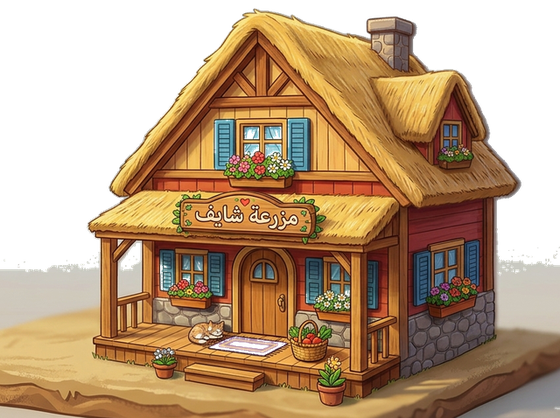
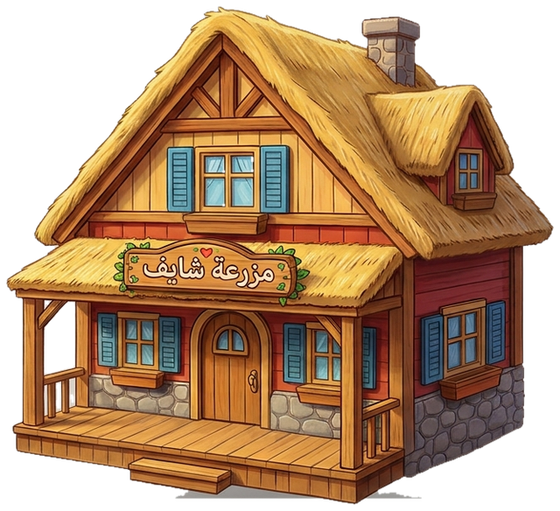
دمج الشخصية والمنزل والمروج من الصور المرجعية
شايف بالزي والعمامة والجنبية هو اللاعب وفي القائمة، الكوخ جالس على العشب، والأرض حقل أخضر بورود وردية.

diff --git a/js/app.js b/js/app.js
@@ -128,6 +128,7 @@
   const keys = {};
   let walkTo = null, fauna = [], bits = [], clouds = [], focus = null, lastT = 0;
   const imgShayef = new Image(); imgShayef.src = "img/shayef.png";
+  const imgPlayer = new Image(); imgPlayer.src = "img/player.png";
   const imgHouse = new Image(); imgHouse.src = "img/house.png";
 
   function starterPlots() {
@@ -660,7 +661,7 @@
           continue;
         }
         const gh = hash(x + "," + y);
-        map[y][x] = { t: "grass", flower: gh % 9 === 0, clover: gh % 7 === 0, pebble: gh % 17 === 0 };
+        map[y][x] = { t: "grass", flower: gh % 3 === 0, clover: gh % 4 === 0, pebble: gh % 19 === 0, bloom: gh % 5 };
       }
     }
     for (let x = 7; x <= 13; x++) if (map[9] && map[9][x] && map[9][x].t === "grass") map[9][x] = { t: "path" };
@@ -1001,7 +1002,7 @@
       const ox = ((h >> (i * 3)) % 13) - 6, oy = ((h >> (i * 2 + 1)) % 7) - 3;
       const sway = Math.sin((t || 0) * 2.1 + x * 0.55 + i) * 1.8 + bend;
       const hh = 6 + (h >> i) % 5;
-      c.strokeStyle = i % 4 === 0 ? "#8bc34a" : i % 4 === 1 ? "#66bb6a" : i % 4 === 2 ? "#43a047" : "#2e7d32";
+      c.strokeStyle = i % 4 === 0 ? "#9ccc65" : i % 4 === 1 ? "#7cb342" : i % 4 === 2 ? "#66bb6a" : "#2e7d32";
       c.beginPath();
       c.moveTo(p.x + ox, p.y + oy + 4);
       c.quadraticCurveTo(p.x + ox + sway * 0.4, p.y + oy - hh * 0.45, p.x + ox + sway, p.y + oy - hh);
@@ -1010,11 +1011,27 @@
   }
   function grassPalette(x, y) {
     const h = hash(x + "p" + y) % 5;
-    if (h === 0) return ["#4ecf5a", "#34a33c", "#1e7a28"];
-    if (h === 1) return ["#62d96a", "#3cb346", "#2e8b32"];
-    if (h === 2) return ["#3db84a", "#2e9b38", "#1b6e24"];
-    if (h === 3) return ["#58c85f", "#43a047", "#2e7d32"];
-    return ["#46c45a", "#388e3c", "#1b5e20"];
+    if (h === 0) return ["#7ed957", "#4caf50", "#2e7d32"];
+    if (h === 1) return ["#8be06a", "#66bb6a", "#388e3c"];
+    if (h === 2) return ["#6bcf4a", "#43a047", "#2e7d32"];
+    if (h === 3) return ["#9ad95c", "#7cb342", "#558b2f"];
+    return ["#62d26a", "#43a047", "#1b5e20"];
+  }
+  function drawPinkBloom(c, x, y, s, seed) {
+    const cols = ["#f8bbd0", "#f48fb1", "#f06292", "#ec407a", "#ffcdd2"];
+    c.save(); c.translate(x, y);
+    const sway = Math.sin((seed % 9) + x * 0.02) * 0.15;
+    c.rotate(sway);
+    c.fillStyle = cols[seed % cols.length];
+    for (let i = 0; i < 5; i++) {
+      const a = i * 1.2566;
+      c.beginPath();
+      c.ellipse(Math.cos(a) * s * 0.85, Math.sin(a) * s * 0.5, s * 0.55, s * 0.28, a, 0, 7);
+      c.fill();
+    }
+    c.fillStyle = "#fff59d";
+    c.beginPath(); c.arc(0, 0, s * 0.28, 0, 7); c.fill();
+    c.restore();
   }
   function drawBuildingBox(c, x, y, bw, bd, h, wall, wallD, roof) {
     const p0 = toScreen(x, y), pR = toScreen(x + bw, y), pF = toScreen(x + bw, y + bd), pL = toScreen(x, y + bd);
@@ -1114,14 +1131,18 @@
         drawBlock(c, p.x, p.y, shade(pal[0], -18), shade(pal[1], -12), shade(pal[2], -8));
         drawTufts(c, p, x, y, t);
       } else if (cell.t === "path") {
-        drawBlock(c, p.x, p.y, "#f3d5a0", "#d7a86a", "#c48a3a");
+        drawBlock(c, p.x, p.y, "#d7c48a", "#b89a5c", "#8d6e3a");
         const ph = hash(x + "s" + y);
         if (ph % 3 === 0) { c.fillStyle = "#c4a574"; c.beginPath(); c.ellipse(p.x + (ph % 7) - 3, p.y + 2, 3.2, 1.6, 0.2, 0, 7); c.fill(); }
       } else if (cell.t === "plot") {
         const pl = state.plots[cell.plot];
         drawBlock(c, p.x, p.y, isReady(pl) ? "#a97843" : "#5d4037", "#4e342e", "#3e2723");
       } else if (cell.t === "site") drawBlock(c, p.x, p.y, "#ffe082", "#ffca28", "#f9a825");
-      else {
+      else if (cell.t === "house") {
+        const pal = grassPalette(x + 1, y);
+        drawBlock(c, p.x, p.y, shade(pal[0], -14), shade(pal[1], -10), shade(pal[2], -8));
+        drawTufts(c, p, x, y, t);
+      } else {
         const pal = grassPalette(x, y);
         drawBlock(c, p.x, p.y, pal[0], pal[1], pal[2]);
         drawTufts(c, p, x, y, t);
@@ -1134,10 +1155,10 @@
         }
         if (cell.pebble) { c.fillStyle = "#cfd8dc"; c.beginPath(); c.ellipse(p.x - 6, p.y + 3, 3.5, 1.8, -0.3, 0, 7); c.fill(); }
         if (cell.flower) {
-          const cols = ["#ec407a", "#fff176", "#7e57c2", "#ff8a65", "#42a5f5"];
-          c.fillStyle = cols[(x * 3 + y) % cols.length];
-          c.beginPath(); c.arc(p.x + 5, p.y - 5, 2.4, 0, 7); c.fill();
-          c.fillStyle = "#fff59d"; c.beginPath(); c.arc(p.x + 5, p.y - 5, 1, 0, 7); c.fill();
+          drawPinkBloom(c, p.x + ((hash(x + "f") % 9) - 4), p.y - 4, 3.4 + (cell.bloom % 3) * 0.6, hash(x + "b" + y));
+          if (cell.bloom % 2 === 0) drawPinkBloom(c, p.x - 8, p.y + 2, 2.6, hash(y + "c" + x));
+        } else if ((x + y) % 4 === 1) {
+          drawPinkBloom(c, p.x + 6, p.y - 2, 2.2, x * 3 + y);
         }
       }
       if (focus && ((focus.type === "plot" && cell.plot === focus.i) || (focus.type === "place" && focus.x === x && focus.y === y) || ((focus.type === "forest" || focus.type === "rock" || focus.type === "bush" || focus.type === "wild") && focus.x === x && focus.y === y))) {
@@ -1255,29 +1276,36 @@
     }
   }
   function drawHouseExt(c, t) {
-    const door = toScreen(7.5, 8.95);
-    const base = toScreen(7.5, 8.55);
-    const sway = Math.sin(t * 0.9) * 0.6;
+    const door = toScreen(7.5, 8.92);
+    const p0 = toScreen(6.0, 6.05), pR = toScreen(9.05, 6.05), pF = toScreen(9.05, 8.95), pL = toScreen(6.0, 8.95);
     c.save();
-    c.fillStyle = "rgba(40, 70, 30, 0.28)";
+    c.fillStyle = "rgba(28, 62, 22, 0.26)";
     c.beginPath();
-    c.ellipse(base.x + 4, base.y + 12, 92, 28, 0, 0, 7);
+    c.moveTo(p0.x, p0.y + 6);
+    c.lineTo(pR.x, pR.y + 6);
+    c.lineTo(pF.x, pF.y + 10);
+    c.lineTo(pL.x, pL.y + 10);
+    c.closePath();
     c.fill();
     if (imgHouse.complete && imgHouse.naturalWidth) {
-      const w = 252, h = w * (imgHouse.naturalHeight / imgHouse.naturalWidth);
-      c.drawImage(imgHouse, base.x - w / 2 + 6 + sway * 0.12, base.y - h + 22, w, h);
-    } else {
-      c.fillStyle = "#c48a3a";
-      c.fillRect(base.x - 50, base.y - 80, 100, 80);
+      const w = 278, h = w * (imgHouse.naturalHeight / imgHouse.naturalWidth);
+      c.drawImage(imgHouse, door.x - w * 0.50, door.y - h + 18, w, h);
     }
+    const beds = [
+      [6.15, 8.55], [8.85, 8.5], [6.35, 7.15], [8.7, 7.05], [5.95, 8.15], [9.15, 8.2],
+    ];
+    beds.forEach(([x, y], i) => {
+      const q = toScreen(x, y);
+      drawPinkBloom(c, q.x, q.y - 4, 3.2 + (i % 3) * 0.4, 11 + i * 3);
+    });
     c.restore();
-    if (Math.sin(t * 2.4) > 0.2) {
-      c.fillStyle = "rgba(255, 248, 220, 0.35)";
+    if (Math.sin(t * 2.2) > 0.35) {
+      c.fillStyle = "rgba(255, 248, 220, 0.32)";
       c.beginPath();
-      c.arc(door.x + 22, door.y - 52, 5 + Math.sin(t * 3) * 1.2, 0, 7);
+      c.arc(door.x + 18, door.y - 58, 4.5 + Math.sin(t * 3) * 1.1, 0, 7);
       c.fill();
     }
-    label(c, "بيت شايف", door.x, door.y - 92);
+    label(c, "بيت شايف", door.x, door.y - 108);
   }
   function drawSite(c, s) {
     const p = toScreen(s.x + s.w / 2, s.y + s.h / 2);
@@ -1483,134 +1511,47 @@
     const p = toScreen(player.x, player.y);
     const walk = player.state === "walk";
     const ph = player.anim * (walk ? 11 : 2);
-    const bob = walk ? Math.abs(Math.sin(ph)) * 3.6 : Math.sin(t * 2.1) * 1.1;
-    const leg = walk ? Math.sin(ph) : 0;
-    const lean = walk ? Math.sin(ph) * 0.06 : 0;
-    let arm = walk ? Math.sin(ph) * 0.9 : 0.12;
-    let bend = 0, tool = null, toolAng = 0;
+    const bob = walk ? Math.abs(Math.sin(ph)) * 4.4 : Math.sin(t * 2.05) * 1.15;
+    const lean = walk ? Math.sin(ph) * 0.045 : 0;
+    let tool = null, toolAng = 0, arm = walk ? Math.sin(ph) * 0.7 : 0.1;
     if (player.state === "hoe" || player.state === "chop") {
       const k = 1 - Math.max(0, player.busy) / 0.7;
-      toolAng = -1.15 + Math.sin(k * Math.PI) * 2.15; arm = toolAng; tool = player.state; bend = 7;
+      toolAng = -1.1 + Math.sin(k * Math.PI) * 2.05;
+      arm = toolAng; tool = player.state;
     }
-    if (player.state === "water") { tool = "can"; arm = 0.55; }
-    if (player.state === "harvest") { bend = 15 + Math.sin(player.anim * 10) * 4; arm = 0.85; }
-    const blink = (Math.sin(t * 2.7) > 0.97);
-    c.fillStyle = "rgba(20,30,10,.28)"; c.beginPath(); c.ellipse(p.x, p.y + 8, 16, 6, 0, 0, 7); c.fill();
-    c.save(); c.translate(p.x, p.y + 6 - bob); c.scale(player.flip, 1); c.rotate(lean);
-
-    c.fillStyle = "#4e342e";
-    c.beginPath(); c.ellipse(-7, 3 + leg * 5.5, 5.4, 3.3, 0.1, 0, 7); c.fill();
-    c.beginPath(); c.ellipse(7, 3 - leg * 5.5, 5.4, 3.3, -0.1, 0, 7); c.fill();
-    c.fillStyle = "#3e2723";
-    c.fillRect(-9.5, -14, 6.5, 16 + leg * 5.5);
-    c.fillRect(3, -14, 6.5, 16 - leg * 5.5);
-    c.fillStyle = "#6d4c41";
-    c.fillRect(-9.5, -2 + leg * 5.5, 6.5, 4);
-    c.fillRect(3, -2 - leg * 5.5, 6.5, 4);
-
-    c.fillStyle = "#f7f1e4";
+    if (player.state === "water") { tool = "can"; arm = 0.5; }
+    if (player.state === "harvest") { tool = "pick"; }
+    c.fillStyle = "rgba(22, 42, 16, 0.32)";
     c.beginPath();
-    c.moveTo(-14, -18 - bend);
-    c.lineTo(-12, -50);
-    c.lineTo(12, -50);
-    c.lineTo(14, -18 - bend);
-    c.quadraticCurveTo(0, -10, -14, -18 - bend);
-    c.closePath(); c.fill();
-    c.strokeStyle = "#d7cbb8"; c.lineWidth = 1.2; c.stroke();
-    c.strokeStyle = "#c9a227"; c.lineWidth = 1.4;
-    c.beginPath(); c.moveTo(-11, -20); c.lineTo(11, -20); c.stroke();
-
-    c.fillStyle = "#2e7d32";
-    c.beginPath(); c.moveTo(-10, -49); c.lineTo(-9, -22); c.lineTo(9, -22); c.lineTo(10, -49); c.lineTo(4, -36); c.lineTo(0, -28); c.lineTo(-4, -36); c.closePath(); c.fill();
-    c.fillStyle = "#c9a227";
-    c.beginPath(); c.arc(-4, -40, 1.5, 0, 7); c.fill();
-    c.beginPath(); c.arc(-4, -32, 1.5, 0, 7); c.fill();
-    c.fillStyle = "#1b5e20"; c.fillRect(-7, -24, 14, 4);
-    c.fillStyle = "#6d4c41"; c.fillRect(-8, -21, 16, 3);
-
-    c.strokeStyle = "#f7f1e4"; c.lineWidth = 7; c.lineCap = "round";
-    c.beginPath(); c.moveTo(-9, -46); c.lineTo(-15, -30 + arm * 11); c.stroke();
-    c.beginPath(); c.moveTo(9, -46); c.lineTo(16, -31 - arm * 12); c.stroke();
-    c.fillStyle = "#d4a574";
-    c.beginPath(); c.arc(-15, -28 + arm * 11, 4.4, 0, 7); c.fill();
-    c.beginPath(); c.arc(16.5, -29 - arm * 12, 4.4, 0, 7); c.fill();
-
+    c.ellipse(p.x, p.y + 7, 15, 6, 0, 0, 7);
+    c.fill();
+    const img = (imgPlayer.complete && imgPlayer.naturalWidth) ? imgPlayer : imgShayef;
+    c.save();
+    c.translate(p.x, p.y + 5 - bob);
+    const squash = walk ? 1 + Math.sin(ph) * 0.028 : 1;
+    c.scale(player.flip * squash, 1 / squash);
+    c.rotate(lean + (tool === "pick" ? 0.08 : 0) + ((player.state === "hoe" || player.state === "chop") ? 0.06 : 0));
+    if (img.complete && img.naturalWidth) {
+      const h = 92, w = h * (img.naturalWidth / img.naturalHeight);
+      c.drawImage(img, -w / 2, -h + 4, w, h);
+    }
     if (tool === "hoe" || tool === "chop") {
-      c.save(); c.translate(16.5, -29 - arm * 12); c.rotate(toolAng);
-      c.strokeStyle = "#6d4c41"; c.lineWidth = 3.2; c.beginPath(); c.moveTo(0, 0); c.lineTo(0, 24); c.stroke();
+      c.save();
+      c.translate(18, -42);
+      c.rotate(toolAng);
+      c.strokeStyle = "#5d4037"; c.lineWidth = 3.2; c.lineCap = "round";
+      c.beginPath(); c.moveTo(0, 0); c.lineTo(0, 26); c.stroke();
       c.fillStyle = tool === "chop" ? "#90a4ae" : "#8d6e63";
-      c.beginPath(); c.moveTo(-9, 22); c.lineTo(11, 19); c.lineTo(9, 28); c.lineTo(-7, 26); c.closePath(); c.fill();
+      c.beginPath(); c.moveTo(-9, 24); c.lineTo(11, 21); c.lineTo(9, 30); c.lineTo(-7, 28); c.closePath(); c.fill();
       c.restore();
     }
     if (tool === "can") {
-      c.fillStyle = "#42a5f5"; c.fillRect(14, -28, 13, 11); c.fillRect(25, -24, 7, 4);
-      c.strokeStyle = "#1565c0"; c.strokeRect(14, -28, 13, 11);
+      c.fillStyle = "#42a5f5"; c.fillRect(14, -48, 12, 10); c.fillRect(24, -44, 7, 4);
+      c.strokeStyle = "#1565c0"; c.strokeRect(14, -48, 12, 10);
       bits.push({ x: player.x + 0.22 * player.flip, y: player.y, vx: 0.45 * player.flip, vy: 0.55, life: 0.4, color: "#4fc3f7" });
     }
-
-    c.fillStyle = "#c48a5a";
-    c.beginPath(); c.ellipse(0, -52, 6, 4, 0, 0, 7); c.fill();
-
-    c.fillStyle = "#d4a574";
-    c.beginPath(); c.ellipse(0, -62, 14.5, 15.2, 0, 0, 7); c.fill();
-    c.fillStyle = "#c48a5a";
-    c.beginPath(); c.ellipse(-13.5, -61, 3.4, 4.2, 0.2, 0, 7); c.fill();
-    c.beginPath(); c.ellipse(13.5, -61, 3.4, 4.2, -0.2, 0, 7); c.fill();
-
-    c.fillStyle = "#4e342e";
-    c.beginPath(); c.ellipse(0, -70, 13, 6, 0, 0, Math.PI, true); c.fill();
-    c.beginPath(); c.ellipse(-11, -64, 4, 5, 0.4, 0, 7); c.fill();
-    c.beginPath(); c.ellipse(11, -64, 4, 5, -0.4, 0, 7); c.fill();
-
-    if (blink) {
-      c.strokeStyle = "#3e2723"; c.lineWidth = 1.6; c.lineCap = "round";
-      c.beginPath(); c.moveTo(-7.5, -64); c.lineTo(-2.5, -64); c.stroke();
-      c.beginPath(); c.moveTo(2.5, -64); c.lineTo(7.5, -64); c.stroke();
-    } else {
-      c.fillStyle = "#fff";
-      c.beginPath(); c.ellipse(-5, -64, 4.1, 4.6, 0, 0, 7); c.fill();
-      c.beginPath(); c.ellipse(5, -64, 4.1, 4.6, 0, 0, 7); c.fill();
-      c.fillStyle = "#5d4037";
-      c.beginPath(); c.arc(-4.6, -63.6, 2.3, 0, 7); c.fill();
-      c.beginPath(); c.arc(5.4, -63.6, 2.3, 0, 7); c.fill();
-      c.fillStyle = "#1a120c";
-      c.beginPath(); c.arc(-4.4, -63.4, 1.15, 0, 7); c.fill();
-      c.beginPath(); c.arc(5.6, -63.4, 1.15, 0, 7); c.fill();
-      c.fillStyle = "#fff";
-      c.beginPath(); c.arc(-3.5, -64.6, 0.85, 0, 7); c.fill();
-      c.beginPath(); c.arc(6.5, -64.6, 0.85, 0, 7); c.fill();
-    }
-    c.fillStyle = "#3e2723";
-    c.beginPath(); c.ellipse(-5.2, -69.2, 3.2, 1.1, 0.15, 0, 7); c.fill();
-    c.beginPath(); c.ellipse(5.2, -69.2, 3.2, 1.1, -0.15, 0, 7); c.fill();
-
-    c.fillStyle = "#c48a5a";
-    c.beginPath(); c.ellipse(0, -59.2, 2.4, 1.8, 0, 0, 7); c.fill();
-    c.strokeStyle = "#a06a48"; c.lineWidth = 1; c.beginPath(); c.moveTo(0, -59); c.lineTo(0, -56.5); c.stroke();
-
-    c.fillStyle = "#e57373"; c.globalAlpha = 0.42;
-    c.beginPath(); c.ellipse(-9.5, -59, 3.4, 2, 0, 0, 7); c.fill();
-    c.beginPath(); c.ellipse(9.5, -59, 3.4, 2, 0, 0, 7); c.fill();
-    c.globalAlpha = 1;
-    c.strokeStyle = "#a06a48"; c.lineWidth = 1.7; c.lineCap = "round";
-    c.beginPath(); c.arc(0, -56.5, 5.2, 0.2, Math.PI - 0.2); c.stroke();
-
-    c.fillStyle = "#e8c56b";
-    c.beginPath(); c.ellipse(0, -73, 19, 5.2, 0, 0, 7); c.fill();
-    c.strokeStyle = "#b89a4a"; c.lineWidth = 1.3; c.stroke();
-    c.fillStyle = "#d7b56d";
-    c.beginPath(); c.ellipse(0, -80, 11.5, 7.5, 0, 0, 7); c.fill();
-    c.stroke();
-    c.fillStyle = "#c62828";
-    c.fillRect(-11, -75, 22, 3);
-    c.fillStyle = "#fdd835";
-    c.beginPath(); c.moveTo(14, -80); c.lineTo(22, -86); c.lineTo(18, -78); c.closePath(); c.fill();
-    c.fillStyle = "#c9a227";
-    c.beginPath(); c.arc(0, -73, 2, 0, 7); c.fill();
-
     c.restore();
   }
-
 
   function drawNpc(c, n, t) {
     const p = toScreen(n.x, n.y);

diff --git a/css/game.css b/css/game.css
@@ -523,11 +523,11 @@ html[data-joy="right"] .act {
 .menu-veil {
   position: absolute; inset: 0; z-index: 1; pointer-events: none;
   background:
-    linear-gradient(90deg, rgba(18, 28, 10, .18) 0%, rgba(18, 28, 10, .05) 38%, rgba(12, 20, 8, .55) 100%),
-    linear-gradient(180deg, rgba(255, 210, 120, .12) 0%, transparent 36%, rgba(20, 30, 10, .35) 100%);
+    linear-gradient(90deg, rgba(18, 32, 12, .22) 0%, rgba(18, 28, 10, .04) 42%, rgba(12, 20, 8, .18) 100%),
+    linear-gradient(180deg, rgba(255, 230, 150, .10) 0%, transparent 40%, rgba(20, 40, 12, .22) 100%);
 }
 .menu-sun {
-  position: absolute; top: 8%; left: 9%; z-index: 1; pointer-events: none;
+  position: absolute; top: 8%; left: 9%; z-index: 1; pointer-events: none; opacity: .35;
   width: 90px; height: 90px; border-radius: 50%;
   background: radial-gradient(circle at 40% 40%, #fff6c8, #ffd54a 46%, rgba(245, 166, 35, .15) 70%, transparent 72%);
   box-shadow: 0 0 40px 12px rgba(255, 200, 80, .28);
@@ -544,12 +544,12 @@ html[data-joy="right"] .act {
 }
 .menu-hero {
   position: absolute;
-  right: 4%;
-  bottom: -6%;
-  height: min(92%, 420px);
+  right: 3%;
+  bottom: -4%;
+  height: min(98%, 560px);
   width: auto;
   z-index: 3;
-  filter: drop-shadow(0 16px 0 rgba(30, 50, 10, .18));
+  filter: drop-shadow(0 14px 10px rgba(20, 40, 10, .35));
   animation: bob 2.8s ease-in-out infinite;
   pointer-events: none;
 }

diff --git a/sw.js b/sw.js
@@ -1,4 +1,4 @@
-const CACHE = "shayef-v9";
+const CACHE = "shayef-v10";
 const ASSETS = [
   "./",
   "./index.html",
@@ -6,6 +6,7 @@ const ASSETS = [
   "./js/app.js",
   "./manifest.json",
   "./img/shayef.png",
+  "./img/player.png",
   "./img/house.png",
   "./img/menu-bg.jpg",
   "./img/icon-192.png",
